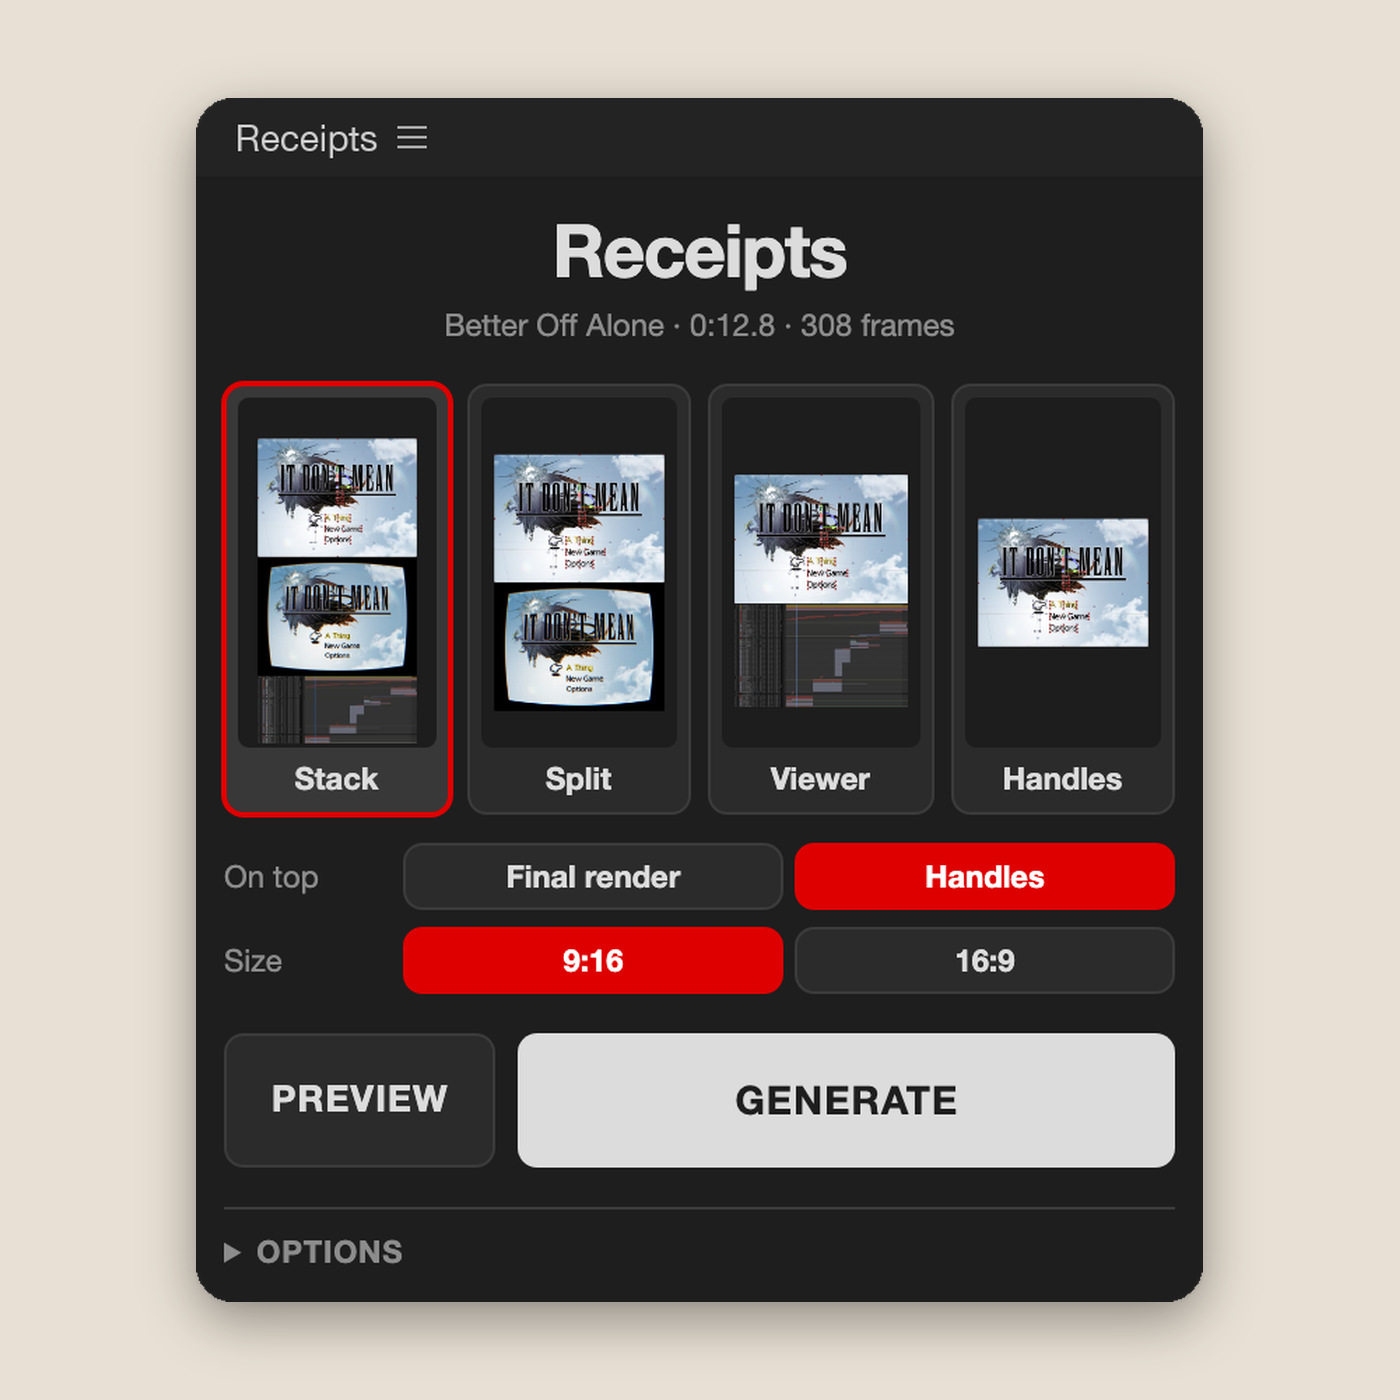
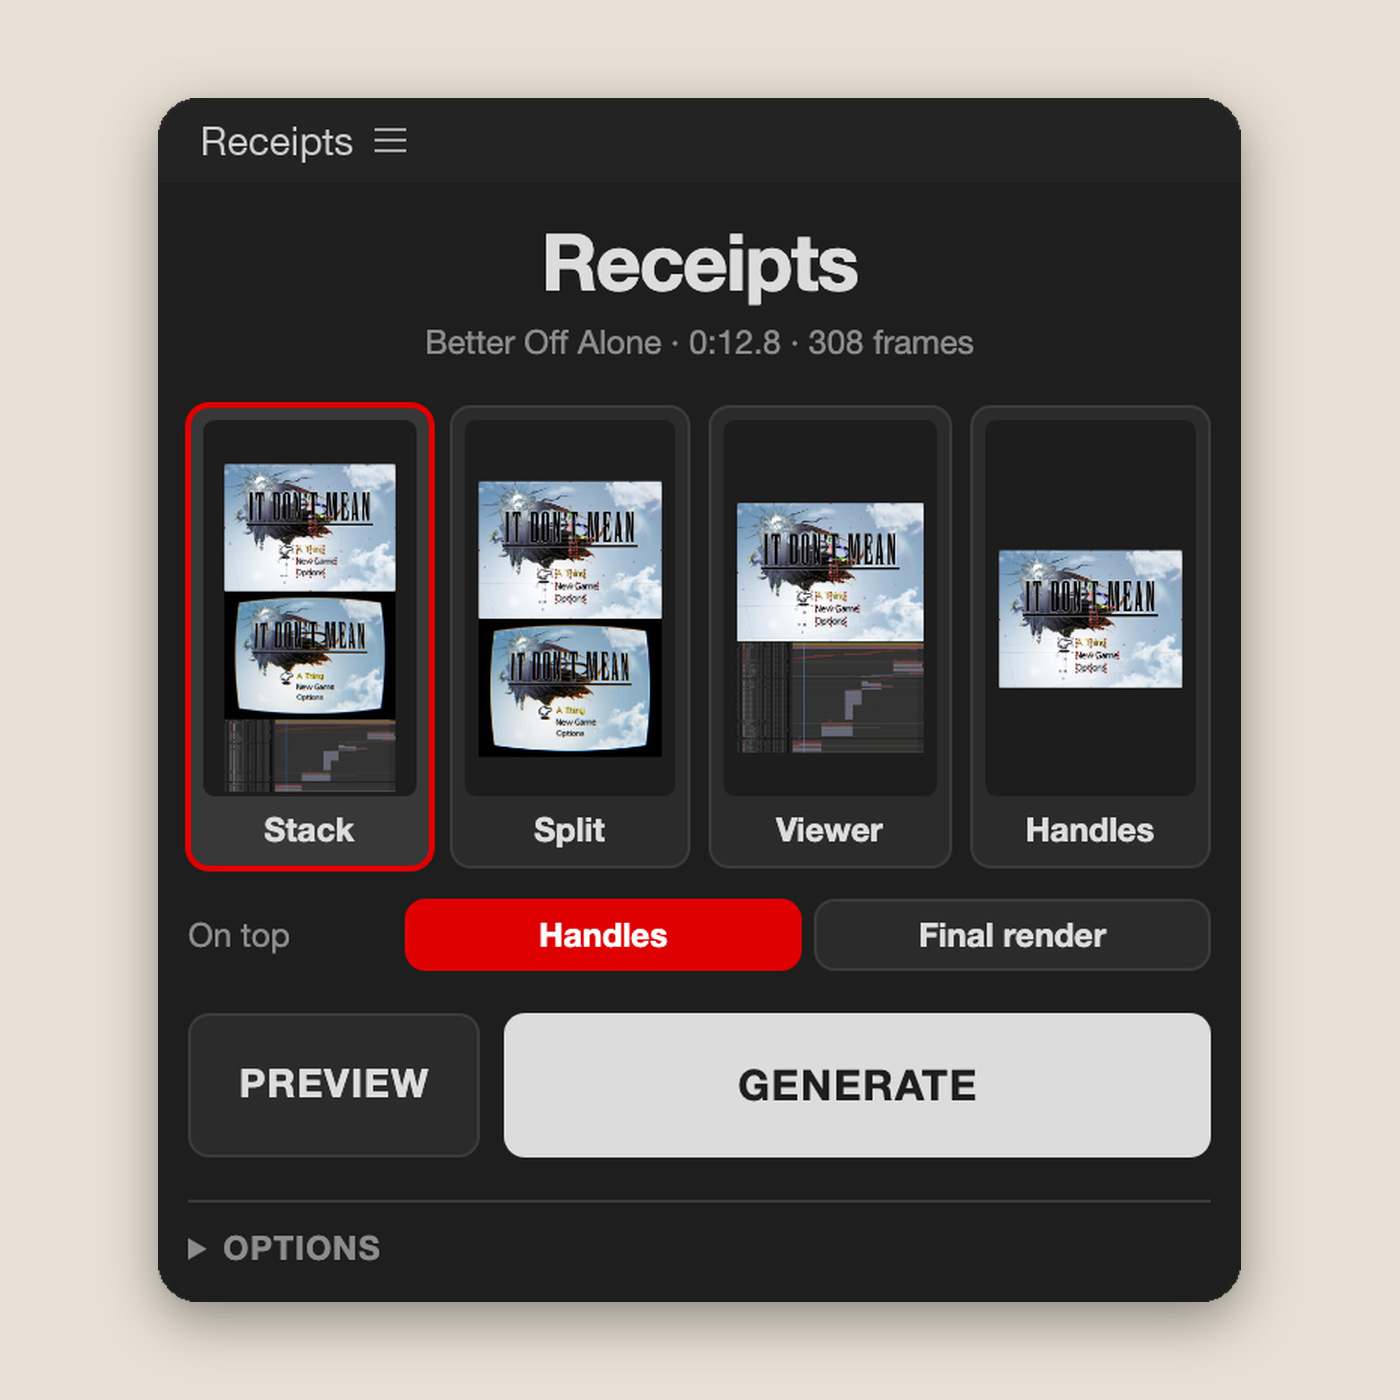
Receipts: 9:16 only with grey or no background; panel shots with Background in Options and Use my file

Changed region(s): [[0.0921, 0.0614, 0.9214, 0.9521]]

diff --git a/assets/js/plugins.js b/assets/js/plugins.js
@@ -151,30 +151,28 @@ const plugins = [
          panel on its card, then each control in order. Cut from the same
          capture as the still and placed in percent of the card, so the last
          frame IS the still. Rebuild them together. */
-      { src: 'projects/plugins/receipts-ui.jpg?v=4', alt: 'The Receipts panel',
-        build: { base: 'projects/plugins/receipts-build/base.jpg?v=3', layers: [
-          { src: 'projects/plugins/receipts-build/01-header.png?v=3', x: 15.571, y: 13.786, w: 68.857 },
-          { src: 'projects/plugins/receipts-build/02-card1.png?v=3', x: 15.571, y: 27.0, w: 16.929 },
-          { src: 'projects/plugins/receipts-build/03-card2.png?v=3', x: 32.929, y: 27.0, w: 16.857 },
-          { src: 'projects/plugins/receipts-build/04-card3.png?v=3', x: 50.214, y: 27.0, w: 16.857 },
-          { src: 'projects/plugins/receipts-build/05-card4.png?v=3', x: 67.5, y: 27.0, w: 16.929 },
-          { src: 'projects/plugins/receipts-build/06-top.png?v=3', x: 15.571, y: 59.714, w: 68.857 },
-          { src: 'projects/plugins/receipts-build/07-size.png?v=3', x: 15.571, y: 65.714, w: 68.857 },
-          { src: 'projects/plugins/receipts-build/08-peek.png?v=3', x: 15.571, y: 73.286, w: 20.357 },
-          { src: 'projects/plugins/receipts-build/09-make.png?v=3', x: 36.571, y: 73.286, w: 47.857 },
-          { src: 'projects/plugins/receipts-build/10-opts.png?v=3', x: 15.571, y: 85.714, w: 68.857 }
+      { src: 'projects/plugins/receipts-ui.jpg?v=5', alt: 'The Receipts panel',
+        build: { base: 'projects/plugins/receipts-build/base.jpg?v=4', layers: [
+          { src: 'projects/plugins/receipts-build/01-header.png?v=4', x: 13.0, y: 14.286, w: 74.0 },
+          { src: 'projects/plugins/receipts-build/02-card1.png?v=4', x: 13.0, y: 28.5, w: 18.143 },
+          { src: 'projects/plugins/receipts-build/03-card2.png?v=4', x: 31.571, y: 28.5, w: 18.214 },
+          { src: 'projects/plugins/receipts-build/04-card3.png?v=4', x: 50.214, y: 28.5, w: 18.143 },
+          { src: 'projects/plugins/receipts-build/05-card4.png?v=4', x: 68.786, y: 28.5, w: 18.214 },
+          { src: 'projects/plugins/receipts-build/06-top.png?v=4', x: 13.0, y: 63.643, w: 74.0 },
+          { src: 'projects/plugins/receipts-build/07-peek.png?v=4', x: 13.0, y: 71.857, w: 21.857 },
+          { src: 'projects/plugins/receipts-build/08-make.png?v=4', x: 35.571, y: 71.857, w: 51.429 },
+          { src: 'projects/plugins/receipts-build/09-opts.png?v=4', x: 13.0, y: 85.143, w: 74.0 }
         ] } },
       { video: 'projects/plugins/receipts-pair.mp4?v=1', src: 'projects/plugins/receipts-pair.jpg?v=1', overlay: 'projects/plugins/receipts-social.svg?v=10', alt: 'A Receipts process video, and the same video in the TikTok feed' },
-      { src: 'projects/plugins/receipts-ui-options.jpg?v=4', alt: 'The Receipts panel with its options open: range, render and timeline' }
+      { src: 'projects/plugins/receipts-ui-options.jpg?v=5', alt: 'The Receipts panel with its options open: background, range, render and timeline' }
     ],
-    intro: `<p>Hit Generate and Receipts steps through your comp one frame at a time, screenshots the real viewer with every handle, path and gizmo After Effects draws, shoots the whole timeline, renders the comp, and builds a finished 4K process video, vertical 9:16 or wide 16:9. No screen recording, no cropping in Premiere.</p>
+    intro: `<p>Hit Generate and Receipts steps through your comp one frame at a time, screenshots the real viewer with every handle, path and gizmo After Effects draws, shoots the whole timeline, renders the comp, and builds a finished 4K 9:16 process video. No screen recording, no cropping in Premiere.</p>
 <p>It finds the viewer and the timeline on its own and fits the comp in the viewer, then puts your zoom, playhead and selection back when it's done. Preview shows one frame in every look before you commit.</p>`,
-    video: { src: 'projects/plugins/receipts-loop.mp4?v=4', poster: 'projects/plugins/receipts-poster.jpg?v=4', title: 'A 16:9 Receipts video' },
     features: [
       '<strong>The real viewer.</strong> Everything After Effects draws: handles, motion paths, 3D gizmos, effect points.',
       '<strong>The whole timeline.</strong> Every layer in one shot, with or without the layer names, and the playhead moving across it.',
       '<strong>Four looks.</strong> Stack, Split or Viewer, with the final render or the handles on top. Or Handles: the viewer on its own, no timeline.',
-      '<strong>Two sizes.</strong> 9:16 that stays clear of the Reels, TikTok and Shorts app bars, or 16:9 for YouTube.',
+      '<strong>Grey or no background.</strong> A 9:16 frame in After Effects\' grey that stays clear of the Reels, TikTok and Shorts app bars, or none: the video cropped right to the edges.',
       '<strong>Any comp size.</strong> 16:9, 9:16, square, ultra-wide. Tall comps go side by side.',
       '<strong>One button.</strong> No layers to pick and no regions to draw.'
     ],
@@ -182,7 +180,7 @@ const plugins = [
       ['Host', 'After Effects 2022 or later'],
       ['Platform', 'macOS 14+ and Windows 10/11'],
       ['Format', 'Panel (Window › Extensions)'],
-      ['Output', '4K MP4, 9:16 or 16:9']
+      ['Output', '4K 9:16 MP4, or cropped to fit']
     ],
     status: 'building',
     version: 'v1.0',

diff --git a/bodyarmor-powerade.html b/bodyarmor-powerade.html
@@ -19,7 +19,7 @@
 <link rel="preconnect" href="https://fonts.googleapis.com">
 <link rel="preconnect" href="https://fonts.gstatic.com" crossorigin>
 <link href="https://fonts.googleapis.com/css2?family=Inter:ital,wght@0,300..700;1,300..700&display=swap" rel="stylesheet">
-<link rel="stylesheet" href="assets/css/site.css?v=361">
+<link rel="stylesheet" href="assets/css/site.css?v=362">
 <style>
   /* First paint: the header (logo + menu) stays put from page to page; the
      project itself builds top down (site.css, .project load-in). */
@@ -100,9 +100,9 @@
 </footer>
 
 <script>window.PROJECT_SLUG = "bodyarmor-powerade";</script>
-<script src="assets/js/projects.js?v=361"></script>
-<script src="assets/js/project-page.js?v=361"></script>
-<script src="assets/js/site.js?v=361"></script>
+<script src="assets/js/projects.js?v=362"></script>
+<script src="assets/js/project-page.js?v=362"></script>
+<script src="assets/js/site.js?v=362"></script>
 <!-- GoatCounter: page views, no cookies. Skips itself on localhost. -->
 <script data-goatcounter="https://michaelloya.goatcounter.com/count" async src="https://gc.zgo.at/count.js"></script>
 </body>

diff --git a/university-union.html b/university-union.html
@@ -19,7 +19,7 @@
 <link rel="preconnect" href="https://fonts.googleapis.com">
 <link rel="preconnect" href="https://fonts.gstatic.com" crossorigin>
 <link href="https://fonts.googleapis.com/css2?family=Inter:ital,wght@0,300..700;1,300..700&display=swap" rel="stylesheet">
-<link rel="stylesheet" href="assets/css/site.css?v=361">
+<link rel="stylesheet" href="assets/css/site.css?v=362">
 <style>
   /* First paint: the header (logo + menu) stays put from page to page; the
      project itself builds top down (site.css, .project load-in). */
@@ -100,9 +100,9 @@
 </footer>
 
 <script>window.PROJECT_SLUG = "university-union";</script>
-<script src="assets/js/projects.js?v=361"></script>
-<script src="assets/js/project-page.js?v=361"></script>
-<script src="assets/js/site.js?v=361"></script>
+<script src="assets/js/projects.js?v=362"></script>
+<script src="assets/js/project-page.js?v=362"></script>
+<script src="assets/js/site.js?v=362"></script>
 <!-- GoatCounter: page views, no cookies. Skips itself on localhost. -->
 <script data-goatcounter="https://michaelloya.goatcounter.com/count" async src="https://gc.zgo.at/count.js"></script>
 </body>

diff --git a/where-it-hurts.html b/where-it-hurts.html
@@ -19,7 +19,7 @@
 <link rel="preconnect" href="https://fonts.googleapis.com">
 <link rel="preconnect" href="https://fonts.gstatic.com" crossorigin>
 <link href="https://fonts.googleapis.com/css2?family=Inter:ital,wght@0,300..700;1,300..700&display=swap" rel="stylesheet">
-<link rel="stylesheet" href="assets/css/site.css?v=361">
+<link rel="stylesheet" href="assets/css/site.css?v=362">
 <style>
   /* First paint: the header (logo + menu) stays put from page to page; the
      project itself builds top down (site.css, .project load-in). */
@@ -100,9 +100,9 @@
 </footer>
 
 <script>window.PROJECT_SLUG = "where-it-hurts";</script>
-<script src="assets/js/projects.js?v=361"></script>
-<script src="assets/js/project-page.js?v=361"></script>
-<script src="assets/js/site.js?v=361"></script>
+<script src="assets/js/projects.js?v=362"></script>
+<script src="assets/js/project-page.js?v=362"></script>
+<script src="assets/js/site.js?v=362"></script>
 <!-- GoatCounter: page views, no cookies. Skips itself on localhost. -->
 <script data-goatcounter="https://michaelloya.goatcounter.com/count" async src="https://gc.zgo.at/count.js"></script>
 </body>

diff --git a/miscellaneous.html b/miscellaneous.html
@@ -19,7 +19,7 @@
 <link rel="preconnect" href="https://fonts.googleapis.com">
 <link rel="preconnect" href="https://fonts.gstatic.com" crossorigin>
 <link href="https://fonts.googleapis.com/css2?family=Inter:ital,wght@0,300..700;1,300..700&display=swap" rel="stylesheet">
-<link rel="stylesheet" href="assets/css/site.css?v=361">
+<link rel="stylesheet" href="assets/css/site.css?v=362">
 <style>
   /* First paint: the header (logo + menu) stays put from page to page; the
      project itself builds top down (site.css, .project load-in). */
@@ -100,9 +100,9 @@
 </footer>
 
 <script>window.PROJECT_SLUG = "miscellaneous";</script>
-<script src="assets/js/projects.js?v=361"></script>
-<script src="assets/js/project-page.js?v=361"></script>
-<script src="assets/js/site.js?v=361"></script>
+<script src="assets/js/projects.js?v=362"></script>
+<script src="assets/js/project-page.js?v=362"></script>
+<script src="assets/js/site.js?v=362"></script>
 <!-- GoatCounter: page views, no cookies. Skips itself on localhost. -->
 <script data-goatcounter="https://michaelloya.goatcounter.com/count" async src="https://gc.zgo.at/count.js"></script>
 </body>

diff --git a/album-covers.html b/album-covers.html
@@ -19,7 +19,7 @@
 <link rel="preconnect" href="https://fonts.googleapis.com">
 <link rel="preconnect" href="https://fonts.gstatic.com" crossorigin>
 <link href="https://fonts.googleapis.com/css2?family=Inter:ital,wght@0,300..700;1,300..700&display=swap" rel="stylesheet">
-<link rel="stylesheet" href="assets/css/site.css?v=361">
+<link rel="stylesheet" href="assets/css/site.css?v=362">
 <style>
   /* First paint: the header (logo + menu) stays put from page to page; the
      project itself builds top down (site.css, .project load-in). */
@@ -100,9 +100,9 @@
 </footer>
 
 <script>window.PROJECT_SLUG = "album-covers";</script>
-<script src="assets/js/projects.js?v=361"></script>
-<script src="assets/js/project-page.js?v=361"></script>
-<script src="assets/js/site.js?v=361"></script>
+<script src="assets/js/projects.js?v=362"></script>
+<script src="assets/js/project-page.js?v=362"></script>
+<script src="assets/js/site.js?v=362"></script>
 <!-- GoatCounter: page views, no cookies. Skips itself on localhost. -->
 <script data-goatcounter="https://michaelloya.goatcounter.com/count" async src="https://gc.zgo.at/count.js"></script>
 </body>

diff --git a/loya.html b/loya.html
@@ -19,7 +19,7 @@
 <link rel="preconnect" href="https://fonts.googleapis.com">
 <link rel="preconnect" href="https://fonts.gstatic.com" crossorigin>
 <link href="https://fonts.googleapis.com/css2?family=Inter:ital,wght@0,300..700;1,300..700&display=swap" rel="stylesheet">
-<link rel="stylesheet" href="assets/css/site.css?v=361">
+<link rel="stylesheet" href="assets/css/site.css?v=362">
 <style>
   /* First paint: the header (logo + menu) stays put from page to page; the
      project itself builds top down (site.css, .project load-in). */
@@ -100,9 +100,9 @@
 </footer>
 
 <script>window.PROJECT_SLUG = "loya";</script>
-<script src="assets/js/projects.js?v=361"></script>
-<script src="assets/js/project-page.js?v=361"></script>
-<script src="assets/js/site.js?v=361"></script>
+<script src="assets/js/projects.js?v=362"></script>
+<script src="assets/js/project-page.js?v=362"></script>
+<script src="assets/js/site.js?v=362"></script>
 <!-- GoatCounter: page views, no cookies. Skips itself on localhost. -->
 <script data-goatcounter="https://michaelloya.goatcounter.com/count" async src="https://gc.zgo.at/count.js"></script>
 </body>

diff --git a/index.html b/index.html
@@ -19,7 +19,7 @@
 <link rel="preconnect" href="https://fonts.googleapis.com">
 <link rel="preconnect" href="https://fonts.gstatic.com" crossorigin>
 <link rel="stylesheet" href="https://use.typekit.net/oft2xxg.css">
-<link rel="stylesheet" href="assets/css/site.css?v=361">
+<link rel="stylesheet" href="assets/css/site.css?v=362">
 <style>
   /* First-paint guard. Applies before anything else resolves, so the page
      never flashes raw content before the load-in animations start.
@@ -127,9 +127,9 @@
 </footer>
 
 <!-- ══ PROJECT DETAIL ══ -->
-<script src="assets/js/projects.js?v=361"></script>
-<script src="assets/js/hero.js?v=361"></script>
-<script src="assets/js/site.js?v=361"></script>
+<script src="assets/js/projects.js?v=362"></script>
+<script src="assets/js/hero.js?v=362"></script>
+<script src="assets/js/site.js?v=362"></script>
 <!-- GoatCounter: page views, no cookies. Skips itself on localhost. -->
 <script data-goatcounter="https://michaelloya.goatcounter.com/count" async src="https://gc.zgo.at/count.js"></script>
 </body>

diff --git a/clippings.html b/clippings.html
@@ -18,7 +18,7 @@
 
 <link rel="preconnect" href="https://fonts.googleapis.com">
 <link rel="preconnect" href="https://fonts.gstatic.com" crossorigin>
-<link rel="stylesheet" href="assets/css/site.css?v=361">
+<link rel="stylesheet" href="assets/css/site.css?v=362">
 <style>
   /* First-paint guard. Applies before anything else resolves, so the page
      never flashes raw content before the load-in animations start.
@@ -101,9 +101,9 @@
 </footer>
 
 <script>window.PLUGIN_SLUG = "clippings";</script>
-<script src="assets/js/plugins.js?v=361"></script>
-<script src="assets/js/plugin-page.js?v=361"></script>
-<script src="assets/js/site.js?v=361"></script>
+<script src="assets/js/plugins.js?v=362"></script>
+<script src="assets/js/plugin-page.js?v=362"></script>
+<script src="assets/js/site.js?v=362"></script>
 <!-- GoatCounter: page views, no cookies. Skips itself on localhost. -->
 <script data-goatcounter="https://michaelloya.goatcounter.com/count" async src="https://gc.zgo.at/count.js"></script>
 </body>

diff --git a/receipts.html b/receipts.html
@@ -18,7 +18,7 @@
 
 <link rel="preconnect" href="https://fonts.googleapis.com">
 <link rel="preconnect" href="https://fonts.gstatic.com" crossorigin>
-<link rel="stylesheet" href="assets/css/site.css?v=361">
+<link rel="stylesheet" href="assets/css/site.css?v=362">
 <style>
   /* First-paint guard. Applies before anything else resolves, so the page
      never flashes raw content before the load-in animations start.
@@ -101,9 +101,9 @@
 </footer>
 
 <script>window.PLUGIN_SLUG = "receipts";</script>
-<script src="assets/js/plugins.js?v=361"></script>
-<script src="assets/js/plugin-page.js?v=361"></script>
-<script src="assets/js/site.js?v=361"></script>
+<script src="assets/js/plugins.js?v=362"></script>
+<script src="assets/js/plugin-page.js?v=362"></script>
+<script src="assets/js/site.js?v=362"></script>
 <!-- GoatCounter: page views, no cookies. Skips itself on localhost. -->
 <script data-goatcounter="https://michaelloya.goatcounter.com/count" async src="https://gc.zgo.at/count.js"></script>
 </body>

diff --git a/gh-midi.html b/gh-midi.html
@@ -18,7 +18,7 @@
 
 <link rel="preconnect" href="https://fonts.googleapis.com">
 <link rel="preconnect" href="https://fonts.gstatic.com" crossorigin>
-<link rel="stylesheet" href="assets/css/site.css?v=361">
+<link rel="stylesheet" href="assets/css/site.css?v=362">
 <style>
   /* First-paint guard. Applies before anything else resolves, so the page
      never flashes raw content before the load-in animations start.
@@ -101,9 +101,9 @@
 </footer>
 
 <script>window.PLUGIN_SLUG = "gh-midi";</script>
-<script src="assets/js/plugins.js?v=361"></script>
-<script src="assets/js/plugin-page.js?v=361"></script>
-<script src="assets/js/site.js?v=361"></script>
+<script src="assets/js/plugins.js?v=362"></script>
+<script src="assets/js/plugin-page.js?v=362"></script>
+<script src="assets/js/site.js?v=362"></script>
 <!-- GoatCounter: page views, no cookies. Skips itself on localhost. -->
 <script data-goatcounter="https://michaelloya.goatcounter.com/count" async src="https://gc.zgo.at/count.js"></script>
 </body>

diff --git a/all.html b/all.html
@@ -18,7 +18,7 @@
 
 <link rel="preconnect" href="https://fonts.googleapis.com">
 <link rel="preconnect" href="https://fonts.gstatic.com" crossorigin>
-<link rel="stylesheet" href="assets/css/site.css?v=361">
+<link rel="stylesheet" href="assets/css/site.css?v=362">
 <style>
   /* First-paint guard. Applies before anything else resolves, so the page
      never flashes raw content before the load-in animations start.
@@ -97,9 +97,9 @@
   </div>
 </footer>
 
-<script src="assets/js/projects.js?v=361"></script>
-<script src="assets/js/plugins.js?v=361"></script>
-<script src="assets/js/site.js?v=361"></script>
+<script src="assets/js/projects.js?v=362"></script>
+<script src="assets/js/plugins.js?v=362"></script>
+<script src="assets/js/site.js?v=362"></script>
 <!-- GoatCounter: page views, no cookies. Skips itself on localhost. -->
 <script data-goatcounter="https://michaelloya.goatcounter.com/count" async src="https://gc.zgo.at/count.js"></script>
 </body>
